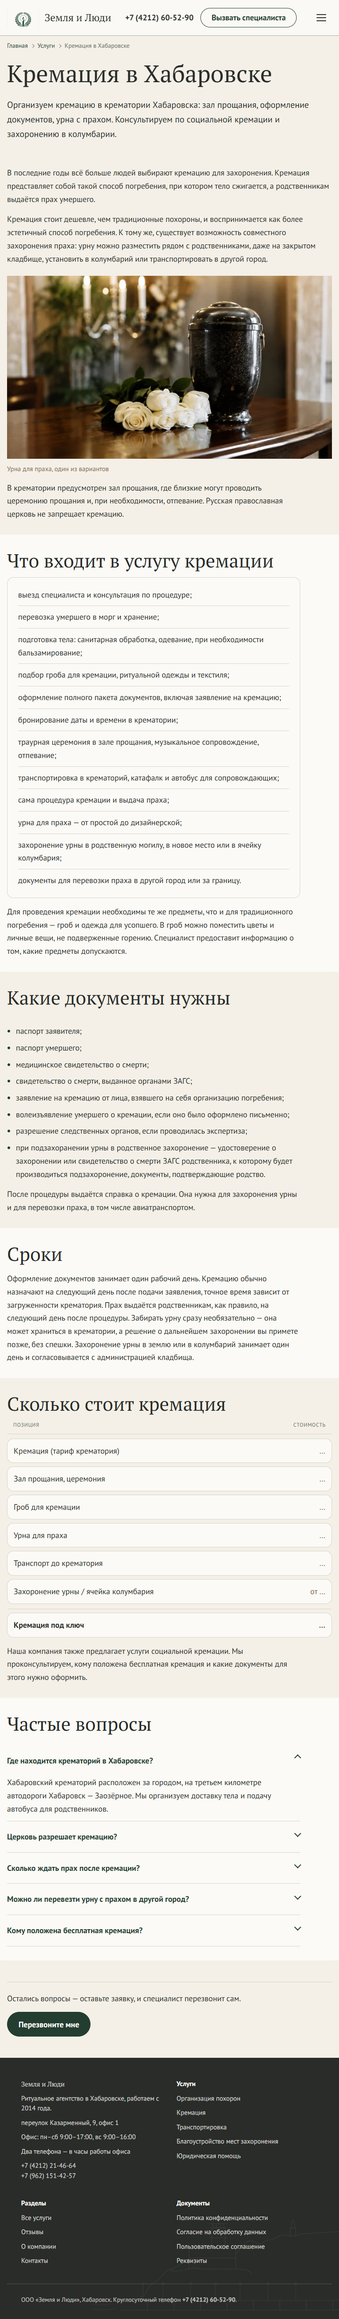
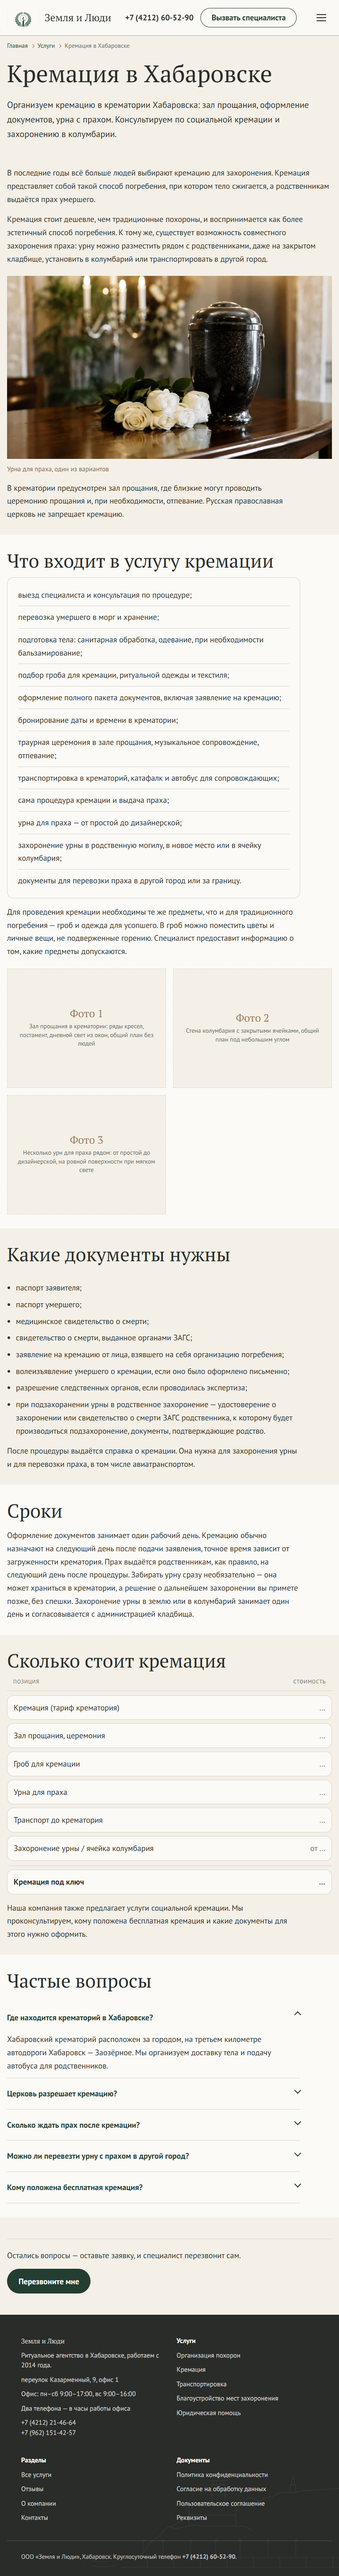
Кремация: три заглушки — зал прощания, колумбарий, варианты урн

Changed region(s): [[0.0, 0.0, 1.0, 0.9941], [0.5312, 0.7145, 0.5625, 0.7456], [0.5, 0.7456, 0.5312, 0.7766]]

diff --git a/_reports/fixes-uslugi-2026-09-23.md b/_reports/fixes-uslugi-2026-09-23.md
@@ -21,7 +21,7 @@
 | 5. Общие компоненты страниц услуг | завершена | ПРОШЁЛ |
 | 6.1 Благоустройство (запись 14) | завершена | ПРОШЁЛ |
 | 6.2 Организация церемонии (запись 11) | завершена | ПРОШЁЛ |
-| 6.3 Кремация (запись 12) | не начата | — |
+| 6.3 Кремация (запись 12) | завершена | ПРОШЁЛ |
 | 6.4 Перевозка (запись 13) | не начата | — |
 | 6.5 Помощь с документами (запись 15) | не начата | — |
 
@@ -1333,3 +1333,41 @@ Enter повторно:      [закрыт, закрыт, закрыт, закр
 Пустых ячеек нет, подписи внутри рамок.
 
 **Вердикт страницы 11: ПРОШЁЛ.**
+
+### Запись 12 — Кремация
+
+**Разведка.** `post_name` `krematsiya`, 13 227 байт, шесть секций:
+вводная (`.rz-side--photo-right`, два абзаца + снимок 139 «урна для
+праха», третий абзац под ними), состав (`.rz-info-card--wide`,
+12 пунктов + замыкающий абзац), документы (8 пунктов + абзац),
+сроки (один абзац), стоимость (таблица 2×7), вопросы (5).
+
+**Куда встали слоты.** Три вопроса, которые текст задаёт сам:
+
+| Место в тексте | Вопрос читателя | Слот |
+|----------------|-----------------|------|
+| «В крематории предусмотрен зал прощания, где близкие могут проводить церемонию» | а что это за зал? | Фото 1 |
+| «захоронение урны… в ячейку колумбария» | что такое колумбарий? | Фото 2 |
+| «урна для праха — от простой до дизайнерской», подпись к настоящему снимку — «Урна для праха, **один из вариантов**» | а какие ещё варианты? | Фото 3 |
+
+Третий слот прямо продолжает подпись существующей фотографии:
+она показывает одну урну и сама называет её одним из вариантов.
+
+**Цикл записи.**
+
+```
+ПРОБНЫЙ ПРОГОН: ПРОШЁЛ — круговорот побайтово сошёлся (14446 байт)
+ТЕКСТ: предложений было 73, стало 79; пропало 0, появилось 6
+ЧТЕНИЕ ОБРАТНО: СОВПАЛО (14446 байт, md5=0a7e3ae25092911dc4e2ac6a46431ccb)
+СЛАГ: не изменился (krematsiya)
+```
+
+**Замер галереи, 1366:** кадр 1 — 103..870 и две строки,
+кадры 2 и 3 — 890..1263 столбиком. Пустых ячеек нет.
+
+**Протокол:** круговорот `#12 … (14446 байт) ПРОШЁЛ`, всего `36/0`;
+обход страницы `0 из 5`; при 200 % `0 из 2`; заглушки
+`30 проверено, 0 замечаний`; пропало 0 предложений, появилось 6 —
+строки заглушек.
+
+**Вердикт страницы 12: ПРОШЁЛ.**

diff --git a/_reports/photo-slots.md b/_reports/photo-slots.md
@@ -89,6 +89,22 @@
 
 ---
 
+## Кремация — `/uslugi/krematsiya/`
+
+Три слота, добавлены 23 сентября. Стоят в конце раздела «Что входит
+в услугу кремации».
+
+| № | Блок | Стороны | Что должно быть изображено | Кадрирование |
+|---|------|---------|----------------------------|--------------|
+| Фото 1 | галерея, крупная ячейка | 4:3 | Зал прощания в крематории: ряды кресел, постамент, дневной свет из окон, общий план без людей | Снимать от входа, чтобы был виден размер зала. Без цветов и венков в кадре: снимок отвечает на фразу «в крематории предусмотрен зал прощания», а не показывает церемонию |
+| Фото 2 | галерея, правая верхняя ячейка | 4:3 | Стена колумбария с закрытыми ячейками, общий план под небольшим углом | Ровный свет, без имён и дат в фокусе. Отвечает на пункт «захоронение урны… в ячейку колумбария» — читатель, скорее всего, не видел колумбария никогда |
+| Фото 3 | галерея, правая нижняя ячейка | 4:3 | Несколько урн для праха рядом: от простой до дизайнерской, на ровной поверхности при мягком свете | Три-четыре урны разного класса в одном кадре и в сравнимом масштабе. Подпись к настоящей фотографии страницы гласит «Урна для праха, один из вариантов» — этот снимок показывает остальные |
+
+Настоящая фотография (вложение 139, урна с белыми розами) остаётся
+во вводном блоке.
+
+---
+
 ## Благоустройство мест захоронения — `/uslugi/blagoustroystvo/`
 
 Шесть снимков по §21.3 и §30: результат, до, после, другой проект,
